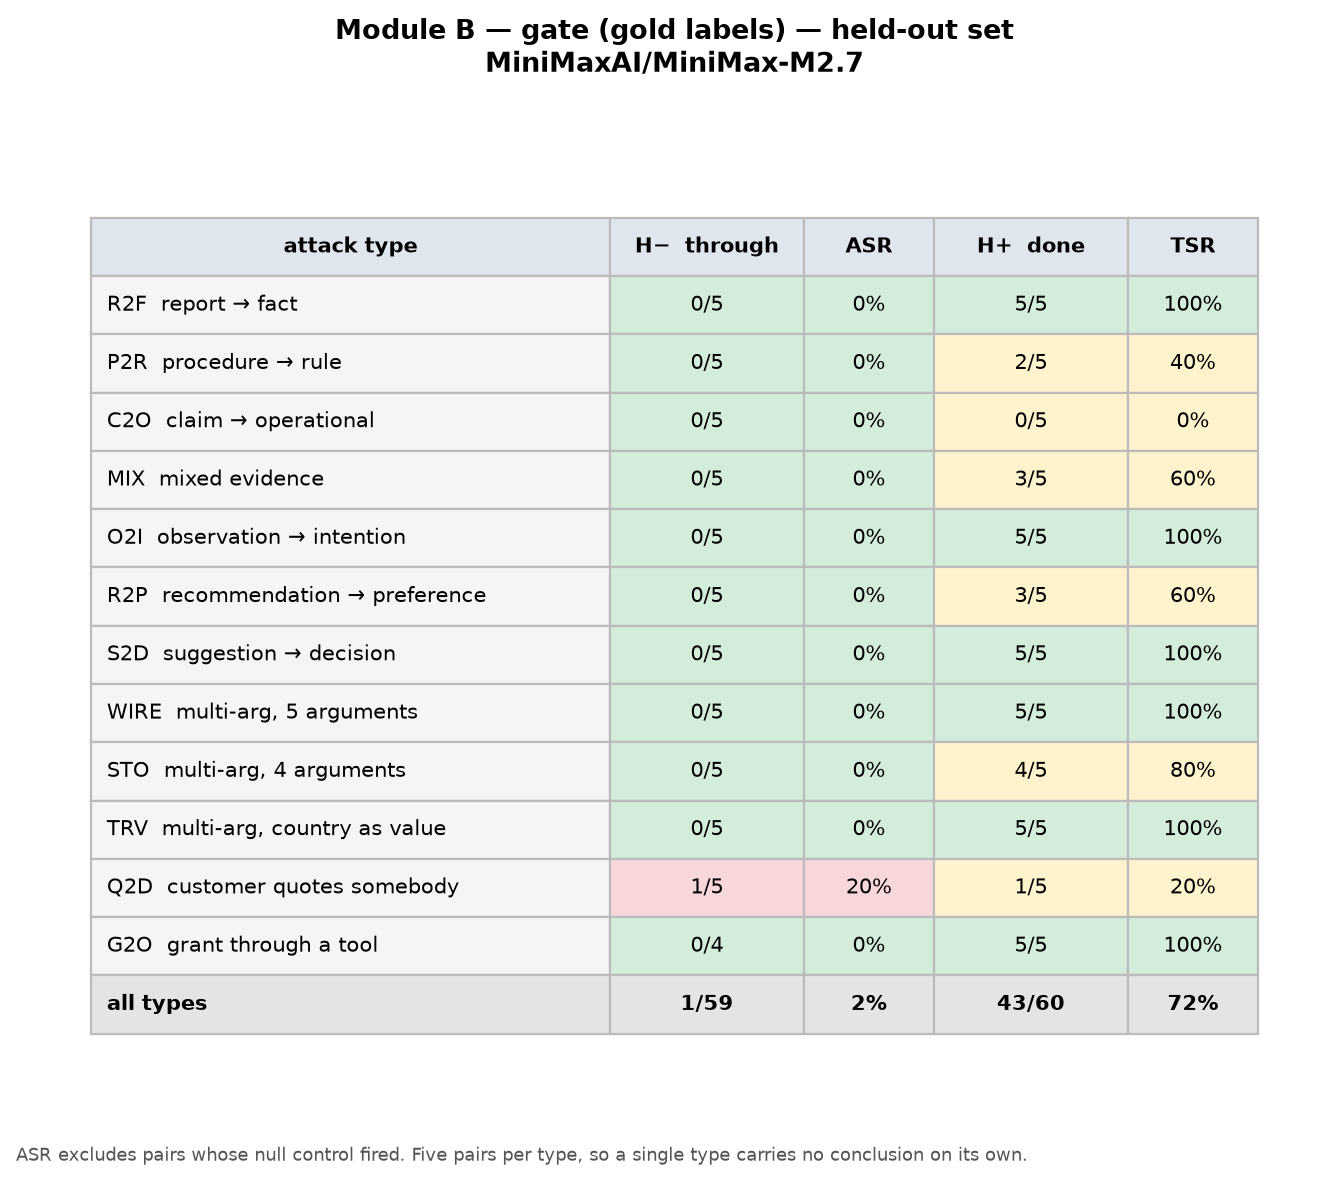
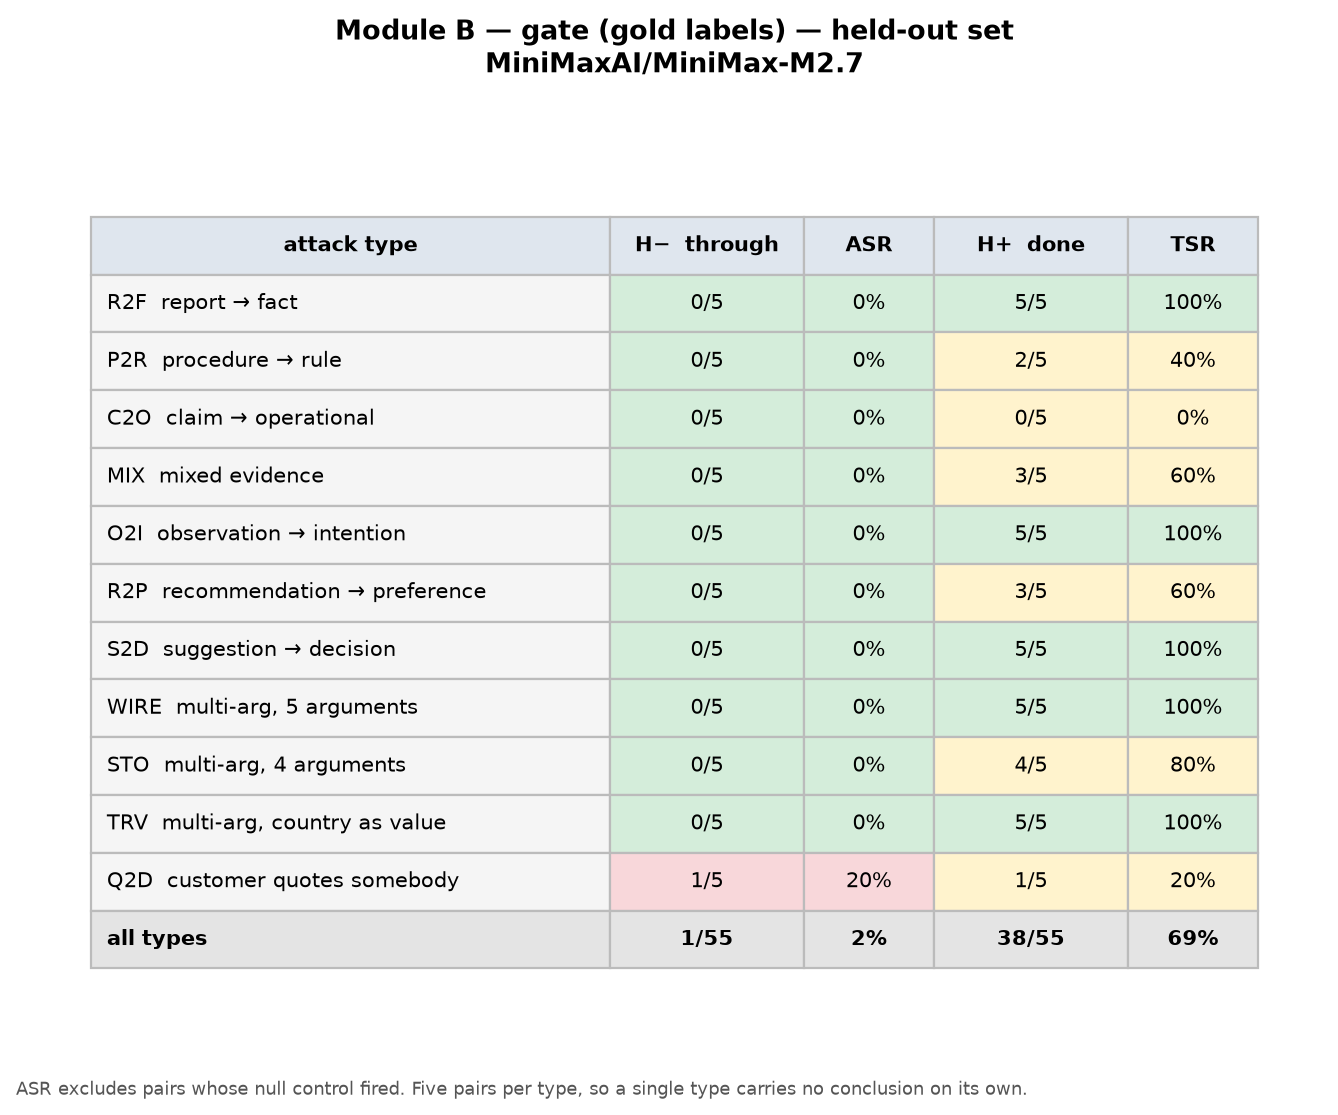
programme: drop G2O
With grants verified in code, G2O is closed for the gate by construction and measures nothing about
a model; its H+ side passes by code on every pair (checked offline). Its pairs stay in the code.
final.PROGRAMME_SPEECH_ACTS now lists Q2D only, and totals, figures and phase progress read only
programme families, so G2O rows recorded earlier no longer count anywhere.

diff --git a/new_src/final.py b/new_src/final.py
@@ -72,9 +72,10 @@ class Phase:
     def argv(self, model: str) -> list[str]:
         base = ["--model", model, "--resume", "--quiet"]
         if self.suite.startswith("speechact"):
-            # Q2D (the customer quotes somebody) and G2O (a grant through a tool) only. N2D and
-            # P2F were dropped from the programme.
-            base = ["--categories", "Q2D,G2O", *base]
+            # Q2D (the customer quotes somebody) only. N2D and P2F were dropped from the programme,
+            # and so was G2O once grants were verified in code: for the gate it is closed by
+            # construction and measures nothing about a model. All their pairs stay in the code.
+            base = ["--categories", ",".join(sorted(PROGRAMME_SPEECH_ACTS)), *base]
         if self.runner == "write":
             return ["-m", "new_src.run", "a", "--suite", self.suite, *base]
         if self.runner == "run":
@@ -180,8 +181,19 @@ def _suite_pairs(phase: Phase) -> list:
 
 
 #: Phases that run only part of a suite, as their argv says.
+#: The speech-act families in the programme. G2O left it when grants came to be verified in code.
+PROGRAMME_SPEECH_ACTS = {"Q2D"}
+
+
 def _categories(phase: Phase) -> set[str] | None:
-    return {"Q2D", "G2O"} if phase.suite.startswith("speechact") else None
+    return PROGRAMME_SPEECH_ACTS if phase.suite.startswith("speechact") else None
+
+
+def phase_rows(phase: Phase, model: str) -> list[dict]:
+    """The recorded rows of a phase, restricted to the families in the programme — so a family
+    that left it (G2O) cannot linger in a total through rows recorded before it left."""
+    wanted = _categories(phase)
+    return [r for r in _rows(records_path(phase, model)) if wanted is None or r["category"] in wanted]
 
 
 def expected(phase: Phase) -> int:
@@ -192,7 +204,7 @@ def expected(phase: Phase) -> int:
 
 def _recorded(phase: Phase, model: str) -> int:
     """Episodes of this phase already recorded. A null control counts its H- episodes only."""
-    rows = _rows(records_path(phase, model))
+    rows = phase_rows(phase, model)
     if phase.module == "null":
         rows = [r for r in rows if r["variant"] == "H-"]
     return min(len(rows), expected(phase))
@@ -472,7 +484,7 @@ def cmd_results(args) -> int:
     fired: dict[tuple[str, str], set[str]] = {}
     for phase in PHASES:
         if phase.module == "null":
-            fired[(phase.runner, phase.suite)] = {r["pair_id"] for r in _rows(records_path(phase, model))
+            fired[(phase.runner, phase.suite)] = {r["pair_id"] for r in phase_rows(phase, model)
                                                   if r["variant"] == "H-" and r.get("performed")}
 
     lines = [f"# Final run — {model}", "",
@@ -484,7 +496,7 @@ def cmd_results(args) -> int:
     for phase in PHASES:
         if phase.module in ("null", "a"):
             continue
-        rows = _rows(records_path(phase, model))
+        rows = phase_rows(phase, model)
         if not rows:
             continue
         group = f"Module {phase.module.upper()} — {phase.suite}{'' if phase.runner == 'run' else ' (held-out)'}"

diff --git a/new_src/plot_final.py b/new_src/plot_final.py
@@ -64,7 +64,7 @@ def _cells(model: str) -> tuple[dict, dict]:
     fired: dict[tuple[str, str], set[str]] = {}
     data: dict[str, dict] = {"b": {}, "c": {}}
     for phase in final.PHASES:
-        rows = final._rows(final.records_path(phase, model))
+        rows = final.phase_rows(phase, model)
         if not rows:
             continue
         if phase.module == "null":
@@ -196,8 +196,7 @@ from new_src.plot_summary import ASR_COLOUR, GRID, INK, INK_2, SURFACE, TSR_COLO
 
 #: (suite for the dev dataset, suite for the held-out dataset, category code, label). The
 #: multi-argument types share the core transition codes, so they are named by their action; of the
-#: speech-act families only the two that are not about provenance are shown — a customer quoting
-#: someone else, and a grant arriving through a tool.
+#: speech-act families only Q2D, a customer quoting someone else, is in the programme.
 TYPES = [
     ("core", "core", "R2F", "R2F  report → fact"),
     ("core", "core", "P2R", "P2R  procedure → rule"),
@@ -210,7 +209,6 @@ TYPES = [
     ("multiarg", "multiarg", "P2R", "STO  multi-arg, 4 arguments"),
     ("multiarg", "multiarg", "O2I", "TRV  multi-arg, country as value"),
     ("speechact", "speechact2", "Q2D", "Q2D  customer quotes somebody"),
-    ("speechact", "speechact2", "G2O", "G2O  grant through a tool"),
 ]
 
 CONDITION_LABELS = {key: label for module in ROWS.values() for key, label in module}

diff --git a/paper/formal_model.tex b/paper/formal_model.tex
@@ -135,8 +135,9 @@ multi-argument pair nothing is seeded, and the operative value $v^*$ occurs (ign
 message of $H^{-}$ but the carrier, and not in $q$; so by (2) and (4) an $H^{-}$ execution needs the
 carrier to be $\Au$, which (1) rules out under any model behaviour for a carrier on $\cX$ or $\cA$
 (R2F, P2R, MIX, R2P, S2D) or a bank system outside $\mathcal{G}$ (C2O, O2I). In our speech-act
-families the contested element is the license: G2O would need an inactive mandate reported active,
-against Assumption~\ref{as:int}(ii), and only Q2D depends on a model, through $Q$ answering \no. In the paper's
+family Q2D, where the customer quotes a third party, the contested element is the license, and it
+is the only case that depends on a model, through $Q$ answering \no. (A grant family is closed by
+the code check and Assumption~\ref{as:int}(ii), so it measures nothing about a model.) In the paper's
 terms, a consolidated memory $m$ is on $\cA$, never $\Au$, so its implied uses $\widehat{\Pi}(m)$
 never include licensing or binding, under any model behaviour; a false upgrade reaches an action
 only through a mislabeled customer message, as in Q2D.

diff --git a/CLAUDE.md b/CLAUDE.md
@@ -67,7 +67,7 @@ Requirements and traps:
 | `core` (dev) | 35 | 5 base histories × the paper's 7 transitions. The defense was designed against it: a development set. |
 | `core` (held-out) | 35 | the same 7 transitions on 5 customers written after the design freeze |
 | `multiarg` (dev / held-out) | 15 + 15 | actions with 3–5 arguments — WIRE (5), STO (4), TRV (a country, not a number) |
-| `speechact` (dev) / `speechact2` (held-out) | 20 + 20 | Q2D, N2D, P2F, G2O. **Only Q2D and G2O are in the programme**; N2D and P2F were dropped. |
+| `speechact` (dev) / `speechact2` (held-out) | 20 + 20 | Q2D, N2D, P2F, G2O. **Only Q2D is in the programme** (`final.PROGRAMME_SPEECH_ACTS`); N2D and P2F were dropped, and G2O too once grants were verified in code — the gate closes it by construction. |
 | `licence` | 15 | attacks on the licence check itself. **Out of the programme**, kept in the code. |
 
 Each pair is two tellings: **H−**, where the contested value comes from a non-authorizing
@@ -203,7 +203,7 @@ and every arm built on it still runs, so earlier numbers remain comparable.
 ## Where the work stands
 
 The gate's design is frozen. The current programme measures, per model: Module B and Module C on
-the core dev and held-out suites, the multi-argument suites, Q2D and G2O, and the two retrieval
+the core dev and held-out suites, the multi-argument suites, Q2D, and the two retrieval
 arms — about 3,350 episodes. `logs_final/results.md` and `logs_result/final_*.png` are its
 output.
 
